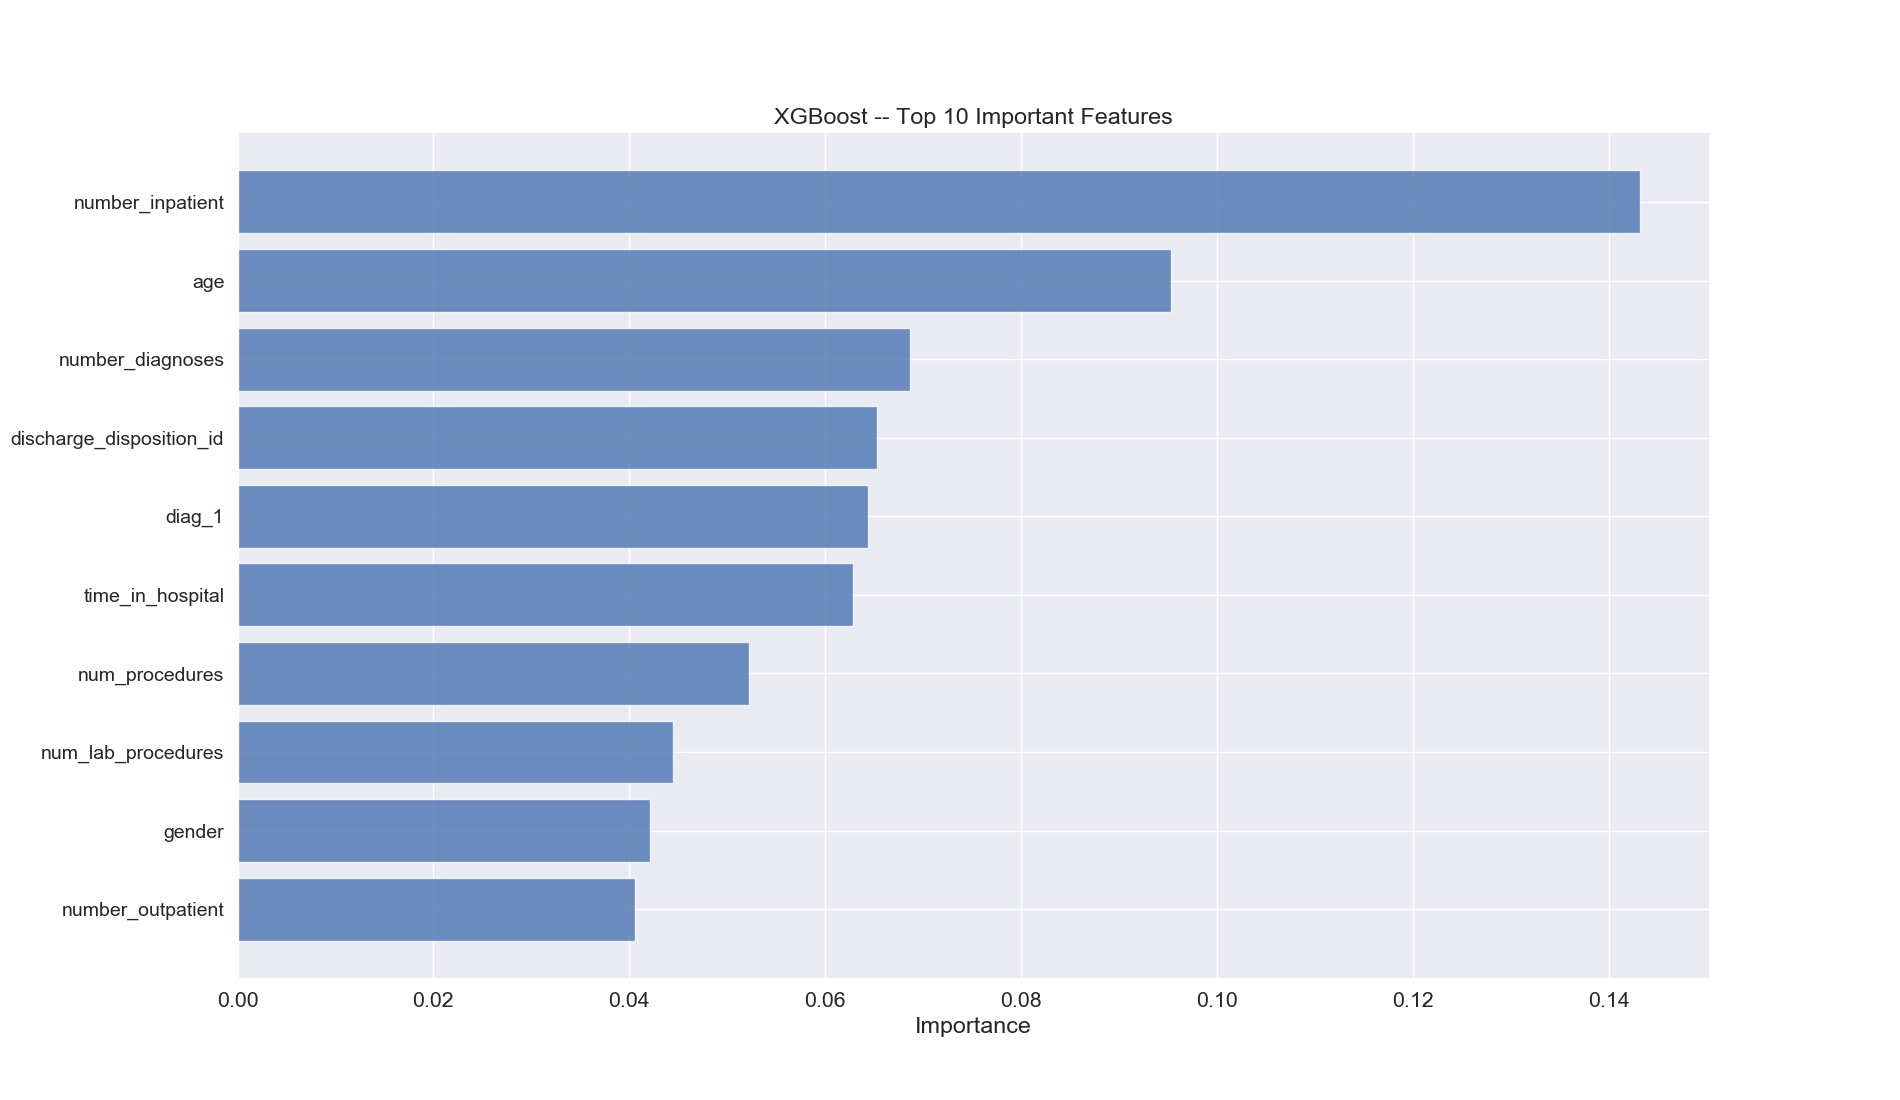
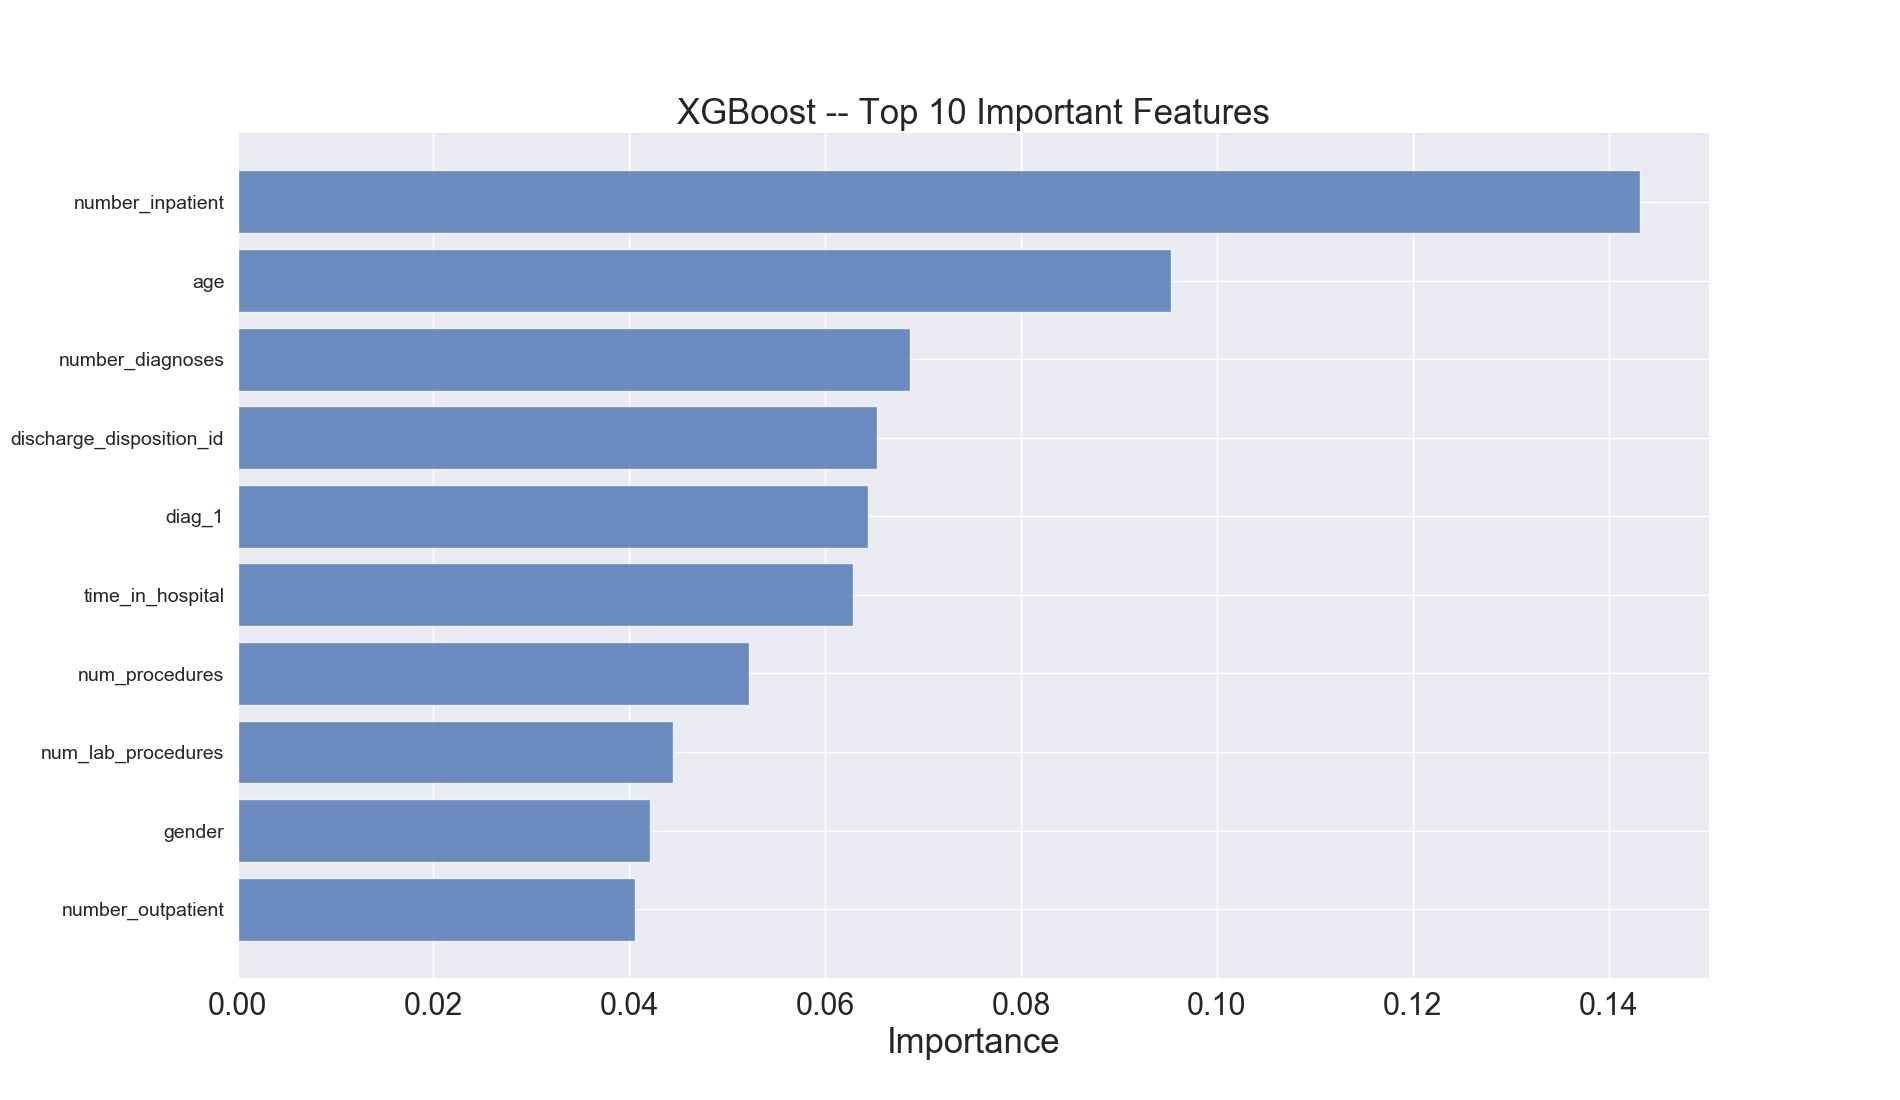
update figure size

diff --git a/train.py b/train.py
@@ -62,7 +62,7 @@ print("nums of train/test set: ", len(X_train), len(X_test), len(Y_train), len(Y
 print('--- XGBoost model ---')
 xg_reg = xgb.XGBClassifier()
 
-print("Cross Validation score: ", np.mean(cross_val_score(xg_reg, X_train, Y_train, cv=10)))  # 10-fold 交叉验证
+# print("Cross Validation score: ", np.mean(cross_val_score(xg_reg, X_train, Y_train, cv=10)))  # 10-fold 交叉验证
 xg_reg.fit(X_train, Y_train)
 
 Y_test_predict = xg_reg.predict(X_test)
@@ -70,12 +70,13 @@ acc = accuracy_score(Y_test, Y_test_predict)
 mat = confusion_matrix(Y_test, Y_test_predict)
 f1 = f1_score(Y_test, Y_test_predict, average='weighted')
 print("Accuracy: ", acc)
+print("F1 score: ", f1)
 print("Confusion matrix: \n", mat)
 print('Overall report: \n', classification_report(Y_test, Y_test_predict))
 
 # Save confusion matrix figure
-plt.figure(figsize=(8, 8))
-sns.set(font_scale=1.4)
+plt.figure(figsize=(4, 4))
+sns.set(font_scale=1)
 sns.heatmap(mat, square=True, annot=True, cmap='Blues')
 plt.xlabel('True Value')
 plt.ylabel('Predict Value')
@@ -88,10 +89,11 @@ most_imp_features = pd.DataFrame([f for f in zip(feature_names, feature_imports)
                                  columns=["Feature", "Importance"]).nlargest(10, "Importance")
 most_imp_features.sort_values(by="Importance", inplace=True)
 plt.figure(figsize=(19, 11))
+plt.rc('xtick',labelsize=22)
 plt.barh(range(len(most_imp_features)), most_imp_features.Importance, align='center', alpha=0.8)
 plt.yticks(range(len(most_imp_features)), most_imp_features.Feature, fontsize=14)
-plt.xlabel('Importance')
-plt.title('XGBoost -- Top 10 Important Features')
+plt.xlabel('Importance', fontsize=25)
+plt.title('XGBoost -- Top 10 Important Features', fontsize=25)
 plt.savefig('./images/XGBfeatImportance.jpg')
 # plt.show()
 
@@ -99,7 +101,7 @@ plt.savefig('./images/XGBfeatImportance.jpg')
 print('--- Random-forest model ---')
 
 forest = RandomForestClassifier(n_estimators=100, max_depth=120, criterion="entropy")
-print("Cross Validation Score: ", np.mean(cross_val_score(forest, X_train, Y_train, cv=10)))
+# print("Cross Validation Score: ", np.mean(cross_val_score(forest, X_train, Y_train, cv=10)))
 forest.fit(X_train, Y_train)
 
 Y_test_predict = forest.predict(X_test)
@@ -107,12 +109,13 @@ acc = accuracy_score(Y_test, Y_test_predict)
 mat = confusion_matrix(Y_test, Y_test_predict)
 f1 = f1_score(Y_test, Y_test_predict, average='weighted')
 print("Accuracy: ", acc)
+print("F1 score: ", f1)
 print("Confusion matrix: \n", mat)
 print('Overall report: \n', classification_report(Y_test, Y_test_predict))
 
 # Save confusion matrix figure
-plt.figure(figsize=(8, 8))
-sns.set(font_scale=1.4)
+plt.figure(figsize=(4, 4))
+sns.set(font_scale=1)
 sns.heatmap(mat, square=True, annot=True, cmap='Reds')
 plt.xlabel('True Value')
 plt.ylabel('Predict Value')
@@ -125,9 +128,10 @@ most_imp_features = pd.DataFrame([f for f in zip(feature_names, feature_imports)
                                  columns=["Feature", "Importance"]).nlargest(10, "Importance")
 most_imp_features.sort_values(by="Importance", inplace=True)
 plt.figure(figsize=(19, 11))
+plt.rc('xtick',labelsize=22)
 plt.barh(range(len(most_imp_features)), most_imp_features.Importance, align='center', alpha=0.8)
 plt.yticks(range(len(most_imp_features)), most_imp_features.Feature, fontsize=14)
-plt.xlabel('Importance')
-plt.title('Random Forest -- Top 10 Important Features')
+plt.xlabel('Importance', fontsize=25)
+plt.title('Random Forest -- Top 10 Important Features', fontsize=25)
 plt.savefig('./images/RFfeatImportance.jpg')
 # plt.show()
